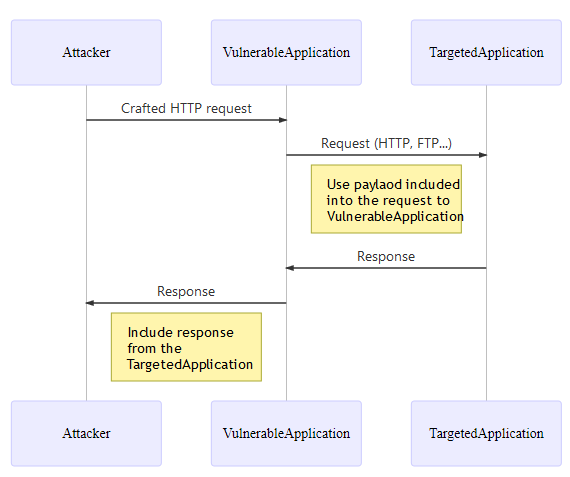
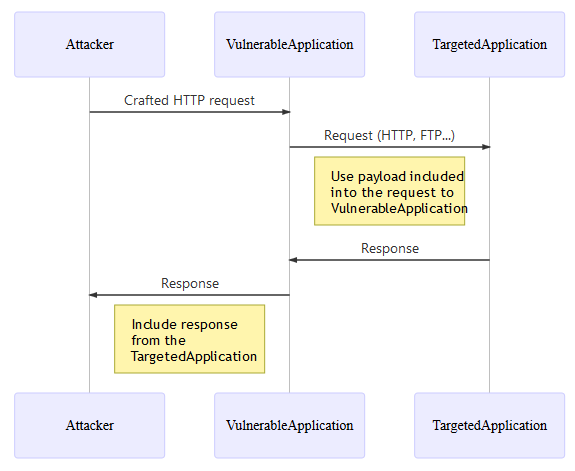
Fix typo and format and move from YOU to WE.

diff --git a/cheatsheets/Server_Side_Request_Forgery_Prevention_Cheat_Sheet.md b/cheatsheets/Server_Side_Request_Forgery_Prevention_Cheat_Sheet.md
@@ -8,10 +8,10 @@ This cheat sheet will focus on the defense point of view and will not explains h
 
 # Context
 
-Server-Side Request Forgery is a way to force application to make a malicious network request. It can happen when user can control the URL to an external resource like: 
-- Image on external server (e.g. user enter URL of the avatar, then the application will download this file and display some feedback like image itself or error).
-- Custom [WebHook](https://en.wikipedia.org/wiki/Webhook) (user have to specify WebHook handlers, Callback URLs).
-- Request to another application, often located on other network, to perform a specific task. Depending of the business case, it can happen that information from the user are needed to perform the action.
+SSRF is a way to force an application to make a malicious network request. It can happen when a user can control the URL to an external resource like: 
+- Image on external server (e.g. user enter URL of the avatar, then, the application will download this file and display some feedback like image itself or error).
+- Custom [WebHook](https://en.wikipedia.org/wiki/Webhook) (user have to specify WebHook handlers or Callback URLs).
+- Request to another application, often located on another network, to perform a specific task. Depending of the business case, it can happen that information from the user are needed to perform the action.
 
 Overview of an SSRF common flow:
 
@@ -21,37 +21,35 @@ Overview of an SSRF common flow:
 
 # Cases
 
-Depending on application functionality and requirements there are two basic cases when SSRF can happen:
-* Application should send request only to **identified and trusted applications**: *Case when [whitelist](https://en.wikipedia.org/wiki/Whitelisting) approach is available*.
+Depending on the application functionality and requirements, there are two basic cases in which SSRF can happen:
+* Application can send request only to **identified and trusted applications**: *Case when [whitelist](https://en.wikipedia.org/wiki/Whitelisting) approach is available*.
 * Application can send requests to **ANY other IP address or domain name**: *Case when [whitelist](https://en.wikipedia.org/wiki/Whitelisting) approach is not available*.
 
-Because these two cases are very different this document will describe defences against them separately.
+Because these two cases are very different, this cheat sheet will describe defences against them separately.
 
-# Case 1 - Application should send request only to identified and trusted applications
+# Case 1 - Application can send request only to identified and trusted applications
 
 Sometime, an application need to perform request to another application, often located on other network, to perform a specific task. Depending of the business case, it can happen that information from the user are needed to perform the action.
 
 *Example:* 
 
- > We can imagine an web application that receive and use the information coming a user like the firstname/lastname/birthdate/... to create a profile into an HR system via a request to this HR system. 
+ > We can imagine an web application that receive and use the information coming from a user like the firstname/lastname/birthdate/... to create a profile into an HR system via a request to this HR system. 
 
- > Basically, the user cannot reach the HR system directly but if the web application in charge of receiving the user information is vulnerable to SSRF then the user can leverage it to access the HR system. 
+ > Basically, the user cannot reach the HR system directly, but, if the web application in charge of receiving the user information is vulnerable to SSRF then the user can leverage it to access the HR system. 
 
- > The user use the web application as a proxy to the HR system, jumping accross the different networks in which the web application and the HR system are located.
+ > The user leverage the web application as a proxy to the HR system, jumping accross the different networks in which the web application and the HR system are located.
 
 Whitelist approach can be used here because the application called by the *VulnerableApplication* is clearly identified in the technical/business flow. So, the goal here is to ensure that every call is targeted to one of the identified and trusted applications.
 
 ## Available protections
 
- > In the rest of this section, we assume that we application absolutely need that the application to use a information from the user to perform a valid request to another application to do the expected job.
-
-Several protections measures are possible at Application and Network layers, both layers will be addressed in this cheat sheet in order to apply the *defense in deph* principle.
+Several protections measures are possible at **Application** and **Network** layers, both layers will be addressed in this cheat sheet in order to apply the *defense in deph* principle.
 
 ### Application layer
 
 The first level of protection that come to mind is [Input validation](Input_Validation_Cheat_Sheet.md). 
 
-It's a good point but then this question appear: *How to perform this input validation?*
+It's a good point but then this question is then raised: *How to perform this input validation?*
 
 As [Orange Tsai](https://twitter.com/orange_8361) show in his [talk](../assets/Server_Side_Request_Forgery_Prevention_Cheat_Sheet_Orange_Tsai_Talk.pdf), depending on the programming language used, parser can be abused. One possible countermeasure is to apply the [whitelisting approach](Input_Validation_Cheat_Sheet.md#whitelisting-vs-blacklisting) when input validation is used because, most of the time, the format of the information expected from the user is globally know.
 
@@ -59,7 +57,7 @@ We can identify the following kind of information that we can receive from a use
 * String containing business data.
 * IP address (V4 or V6).
 * Domain name.
-* URL
+* URL.
 
 **Note:** Disable the support for the following of the [redirection](https://developer.mozilla.org/en-US/docs/Web/HTTP/Redirections) in your web client in order to prevent the bypass of the input validation described in the section `Exploitation tricks > Bypassing restrictions > Input validation > Unsafe redirect` of this [document](../assets/Server_Side_Request_Forgery_Prevention_Cheat_Sheet_SSRF_Bible.pdf).
 
@@ -79,7 +77,7 @@ if(Pattern.matches("[a-zA-Z0-9\\s\\-]{1,50}", userInput)){
 
 #### IP address
 
-In the context of an SSRF, there is 2 validation to perform:
+In the context of an SSRF, there is 2 validations to perform:
 
 1. Ensure that the data provided is a valid IP V4 or V6 address.
 2. Ensure that the IP address provided belong to the one of the IP addresses of the identified and trusted applications (the whitelisting come to action here).
@@ -102,7 +100,7 @@ The first validation can be performed using one of this libraries depending on y
 
 > **Use the output value of the method/library as the IP address to compare against the whitelist.**
 
-Once you are sure that the value is a valid IP address then you can perform the second validation. Here, as a whitelist has been built with all the IP addresses (**V4 + V6** in order to avoid bypass using one of the 2 IP type) of every identified and trusted applications, then a verification can be made to ensure that the IP address provided is part of this whitelist (string strict comparison with case sensitive).
+Once we are sure that the value is a valid IP address then you we perform the second validation. Here, as a whitelist has been built with all the IP addresses (V4 + V6 in order to avoid bypass using one of the 2 IP type) of every identified and trusted applications, then, a verification can be made to ensure that the IP address provided is part of this whitelist (string strict comparison with case sensitive).
 
 #### Domain name
 
@@ -111,26 +109,28 @@ When validation of a domain name come to mind, the first idea is to do a DNS res
 * It can be used by an attacker to bind a legit domain name to an internal IP address. See the section `Exploitation tricks > Bypassing restrictions > Input validation > DNS pinning` of this [document](../assets/Server_Side_Request_Forgery_Prevention_Cheat_Sheet_SSRF_Bible.pdf).
 * It can be used, by an attacker, to deliver a malicious payload to the internal DNS resolvers as well as to the API (SDK or third-party) used by the application to handle the DNS communication and then, potentially, trigger a vulnerability in one of these both components.
 
-In the context of an SSRF, there is 2 validation to perform:
+In the context of an SSRF, there is 2 validations to perform:
 
 1. Ensure that the data provided is a valid domain name.
 2. Ensure that the domain name provided belong to the one of the domain name of the identified and trusted applications (the whitelisting come to action here).
 
-Like for IP address, the first validation can be performed using one of this libraries depending on your technologies (library option is proposed here in order to delegate the managing of the domain name format and leverage battle tested validation function), proposed functions do not perform any DNS resolution query:
+Like for IP address, the first validation can be performed using one of this libraries depending on your technologies (library option is proposed here in order to delegate the managing of the domain name format and leverage battle tested validation function):
+
+> Verification of the proposed libraries has been performed to ensure that the proposed functions do not perform any DNS resolution query.
 
 * **JAVA:** Method [DomainValidator.isValid](https://commons.apache.org/proper/commons-validator/apidocs/org/apache/commons/validator/routines/DomainValidator.html#isValid(java.lang.String)) from the [Apache Commons Validator](http://commons.apache.org/proper/commons-validator/) library.
 * **.NET**: Method [Uri.CheckHostName](https://docs.microsoft.com/en-us/dotnet/api/system.uri.checkhostname?view=netframework-4.8) from the SDK. 
 * **JavaScript**: Library [is-valid-domain](https://www.npmjs.com/package/is-valid-domain).
 * **Python**: Module [validators.domain](https://validators.readthedocs.io/en/latest/#module-validators.domain).
-* **Ruby**: **FIXME: Find a Gem**.
+* **Ruby**: **TODO: Find a Gem**.
 
-Once you are sure that the value is a valid domain name then you can perform the second validation. As we are, here, in a context where whitelist is possible then we can apply this approach:
+Once we are sure that the value is a valid domain name then we can perform the second validation. As we are, here, in a context where whitelist is possible then we can apply this approach:
 
 1. Build a whitelist with all the domain names of every identified and trusted applications.
 2. Verify that the domain name received is part of this whitelist (string strict comparison with case sensitive).
 
-Unfortunately here, the application is still vulnerable to the bypass described in the section `Exploitation tricks > Bypassing restrictions > Input validation > DNS pinning` of this [document](../assets/Server_Side_Request_Forgery_Prevention_Cheat_Sheet_SSRF_Bible.pdf). To address that issue, the following action must be taken in addition of the validation on the domain name:
-1. Ensure that the domains that are part of your organization are resolved by the your internal DNS server first in the DNS resolver chain.
+Unfortunately here, the application is still vulnerable to the bypass described in the section `Exploitation tricks > Bypassing restrictions > Input validation > DNS pinning` of this [document](../assets/Server_Side_Request_Forgery_Prevention_Cheat_Sheet_SSRF_Bible.pdf) because a DNS resolution will be made when the business code will be executed. To address that issue, the following action must be taken in addition of the validation on the domain name:
+1. Ensure that the domains that are part of your organization are resolved by the your internal DNS server first in the chains of DNS resolvers.
 2. Monitor the whitelist of domains in order to detect if any of them change to resolve to an:
     * Local IP address (V4 + V6).
     * Internal IP of your organization (expected to be in private IP ranges) for the domain that are not part of your organization.
@@ -214,9 +214,9 @@ If network related information is really nedded then only accept an valid IP add
 
 The objective here is to prevent that the *VulnerableApplication* performs call to arbitrary applications, so, only the expected *routes* will be opened at network level.
 
-The Firewall component, as a specific device or using the one provided within the operating system, will be used here define the legitimate flows. 
+The Firewall component, as a specific device or using the one provided within the operating system, will be used here to define the legitimate flows. 
 
-In the schema below we show the goal that we want the achieve by leveraging the Firewall component, using this way, even if an application is vulnerable to SSRF, the attacker can only call applications that are part of legitimate flows:
+In the schema below, we show the goal that we want the achieve by leveraging the Firewall component, using this way, even if an application is vulnerable to SSRF, the attacker can only call applications that are part of legitimate flows:
 
 ![Case 1 for Network layer protection about flows that we want to prevent](../assets/Server_Side_Request_Forgery_Prevention_Cheat_Sheet_Case1_NetworkLayer_PreventFlow.png)
 
@@ -224,9 +224,9 @@ In the schema below we show the goal that we want the achieve by leveraging the 
 
 # Case 2 - Application can send requests to ANY external IP address or domain name
 
-This case happen when user can control an URL to an **External** resource and application makes a request to this URL (e.g. in case of [WebHooks](https://en.wikipedia.org/wiki/Webhook)). Whitelist cannot be used here because the list of IPs/domains is often unknown upfront and is dynamically changing. 
+This case happen when user can control an URL to an **External** resource and the application makes a request to this URL (e.g. in case of [WebHooks](https://en.wikipedia.org/wiki/Webhook)). Whitelist cannot be used here because the list of IPs/domains is often unknown upfront and is dynamically changing. 
 
-We talk here about the notion of **External** in way that, at the opposite the of the case n°1 in which we know all the call flow, here the *VulnerableApplication* can, by design, call any target IP/domain. 
+We talk here about the notion of **External** in way that, at the opposite of the case n°1 in which we know all the call flow, here the *VulnerableApplication* can, by design, call any target IP/domain. 
 
 We assume that if in the design of the application it should only perform call to IP/domain that are located inside the company's global network then whitelist approach can be used and then we apply the case n°1. 
 
@@ -236,11 +236,11 @@ Thus **External** here refer to any IP/domain *located outside* the company's gl
 
 ## Challenges in blocking URLs at application layer
 
-Based on the description of the context of application of this case, we see that will use the blacklist approach. It is know in security industry that blacklisting is very hard and prone to errors. 
+Based on the description of the context of application of this case, we see that we will use the blacklist approach. By the way, it is know in security industry that blacklisting is very hard and prone to errors but we are forced to use this approach here. 
 
 Below is described why filtering URLs is very hard at application layer.
 
-* It imply that the application must be able to detect, at code level, that the provided IP (**V4 + V6**) is not in official [private networks ranges](https://en.wikipedia.org/wiki/Private_network) including also `localhost` and IPv4 Link-Local addresses `169.254.0.0-169.254.255.255` (that is all not-routable IP addresses). Not every SDK provide a built-in feature for this kind of verification so it made this task a hard one.
+* It imply that the application must be able to detect, at code level, that the provided IP (V4 + V6) is not in official [private networks ranges](https://en.wikipedia.org/wiki/Private_network) including also *localhost* and *IPv4/v6 Link-Local* addresses. Not every SDK provide a built-in feature for this kind of verification so it made this task a hard one.
 * Same remark for domain name: The company must maintains a list of all internal domain names and provide a centralized service to allow an application to verify if a provided domain name is an internal one. For this verification, an internal DNS resolver can be queried by the application but this internal DNS resolver must not resolve external domain name (*must only resolve internal domain name*).
 
 ## Available protections
@@ -249,28 +249,30 @@ We take the same assumption than for the case n°1 regarding the application use
 
 ### Application layer
 
-Like for the case n°1, we assume that we need `String`, `IP address` or `domain name` to create the request that will be sent to the final application.
+Like for the case n°1, we assume that we need `String`, `IP address` or `domain name` to create the request that will be sent to the *TargetedApplication*.
 
-The input data first validation presented in the case n°1 on the 3 types of data will be the same for this case **BUT the second validation will differ**, indeed, here we must use the blacklist approach.
+The first validation on the input data presented in the case n°1 on the 3 types of data will be the same for this case **BUT the second validation will differ**, indeed, here we must use the blacklist approach.
 
-> **Regarding the proof of legitimacy of the request**: The *TargetedApplication* that will receive the request must generate a random token (ex: alphanumeric of 20 characters) that is expected to be passed by the caller (in body via a parameter for which the name is also defined by the application itself and only allow characters set `[a-z]{1,10}`) to perform a valid request. The reception endpoint must only accept **HTTP POST** request.
+> **Regarding the proof of legitimacy of the request**: The *TargetedApplication* that will receive the request must generate a random token (ex: alphanumeric of 20 characters) that is expected to be passed by the caller (in body via a parameter for which the name is also defined by the application itself and only allow characters set `[a-z]{1,10}`) to perform a valid request. The reception endpoint must only accept **HTTP POST** kind of request.
 
 **Validation flow (if one the validation step fail then the request is rejected):**
-1. Receive the IP address or domain name of the *TargetedApplication* and apply input data first validation using the libraries/regex mentioned in this [section](Server_Side_Request_Forgery_Prevention_Cheat_Sheet.md#application-layer).
-2. Blacklist second validation against the IP address or domain name of the *TargetedApplication*:
-    * For IP address: Verify that is a public one (take a below to see how to dot it).
+
+1. We receive the IP address or domain name of the *TargetedApplication* and apply the first validation on the input data using the libraries/regex mentioned in this [section](Server_Side_Request_Forgery_Prevention_Cheat_Sheet.md#application-layer).
+2. We apply the second validation against the IP address or domain name of the *TargetedApplication* using the following blacklist apporach:
+    * For IP address: 
+        * We verify that it is a public one (cf. below to see how to dot it).
     * For domain name: 
-        1. Verify that is a public one by trying to resolve the domain name against the DNS server that only resolve internal domain name. Here, it must return a response indicating that it do not know the provided domain because the expected value received must be a public domain.
-        2. To prevent the *DNS pinning* attack described into this [document](../assets/Server_Side_Request_Forgery_Prevention_Cheat_Sheet_SSRF_Bible.pdf), get the IPs of behind the domain name (records *A* + *AAAA* for IPv4 + IPv6) and apply the same verificaton than if you have received an IP address.
-3. Receive the protocol to use for the request via a dedicated input parameter for which you verify the value against a allowed list of protocols (`HTTP` or `HTTPS`).
-4. Receive the parameter name for the token to pass to the *TargetedApplication* via a dedicated input parameter for which you only allow characters set `[a-z]{1,10}`.
-5. Receive the token itself via a dedicated input parameter for which you only allow characters set `[a-zA-Z0-9]{20}`.
-6. Receive and validate any business data needed to perform a valid call from a business point of view.
-7. Build the HTTP POST request **using only validated informations** and send it (*do not forget to disable the support for [redirection](https://developer.mozilla.org/en-US/docs/Web/HTTP/Redirections) in the web client used*).
+        1. We verify that it is a public one by trying to resolve the domain name against the DNS resolver that only resolve internal domain name. Here, it must return a response indicating that it do not know the provided domain because the expected value received must be a public domain.
+        2. To prevent the *DNS pinning* attack described into this [document](../assets/Server_Side_Request_Forgery_Prevention_Cheat_Sheet_SSRF_Bible.pdf), we retrieve the IPs behind the domain name provided (taking records *A* + *AAAA* for IPv4 + IPv6) and we apply the same verificaton than if we have received an IP address.
+3. We receive the protocol to use for the request via a dedicated input parameter for which we verify the value against a allowed list of protocols (`HTTP` or `HTTPS`).
+4. We receive the parameter name for the token to pass to the *TargetedApplication* via a dedicated input parameter for which we only allow characters set `[a-z]{1,10}`.
+5. We receive the token itself via a dedicated input parameter for which we only allow characters set `[a-zA-Z0-9]{20}`.
+6. We receive and validate (from a security point of view) any business data needed to perform a valid call.
+7. We build the HTTP POST request **using only validated informations** and send it (*we do not forget to disable the support for [redirection](https://developer.mozilla.org/en-US/docs/Web/HTTP/Redirections) in the web client used*).
 
 **Hints for the step 2 regarding the verification on an IP address:**
 
-As mentioned above, not every SDK provide a built-in feature to verify if an IP (V4 + V6) is private/public. So, the following approach can be used based on a blacklist composed of private IP ranges (*example is given in python in order to be easy to understand and portable to others technologies*) :
+As mentioned above, not every SDK provide a built-in feature to verify if an IP (V4 + V6) is private/public. So, the following approach can be used based on a blacklist composed of the private IP ranges (*example is given in python in order to be easy to understand and portable to others technologies*) :
 
 ```python
 def is_private_ip(ip_address):
@@ -346,7 +348,7 @@ sequenceDiagram
     participant TargetedApplication
     Attacker->>VulnerableApplication: Crafted HTTP request
     VulnerableApplication->>TargetedApplication: Request (HTTP, FTP...)
-    Note left of TargetedApplication: Use paylaod included<br>into the request to<br>VulnerableApplication
+    Note left of TargetedApplication: Use payload included<br>into the request to<br>VulnerableApplication
     TargetedApplication->>VulnerableApplication: Response 
     VulnerableApplication->>Attacker: Response
     Note left of VulnerableApplication: Include response<br>from the<br>TargetedApplication
